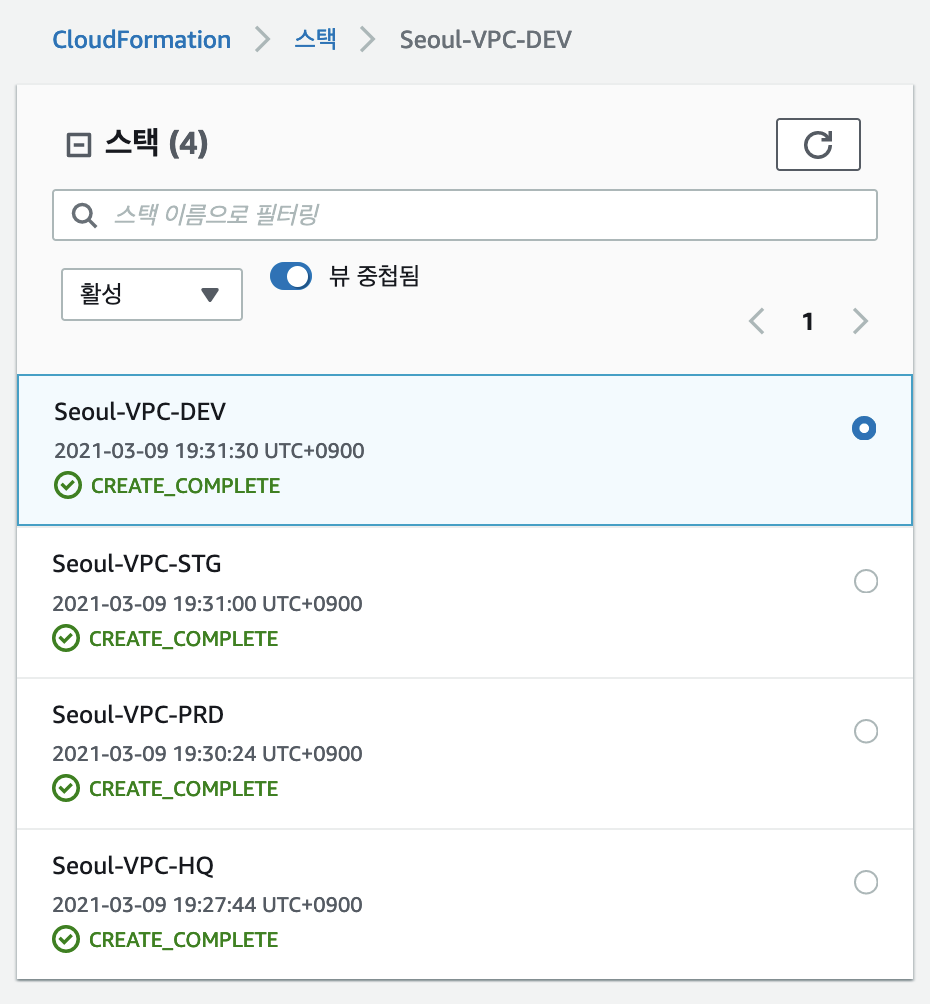
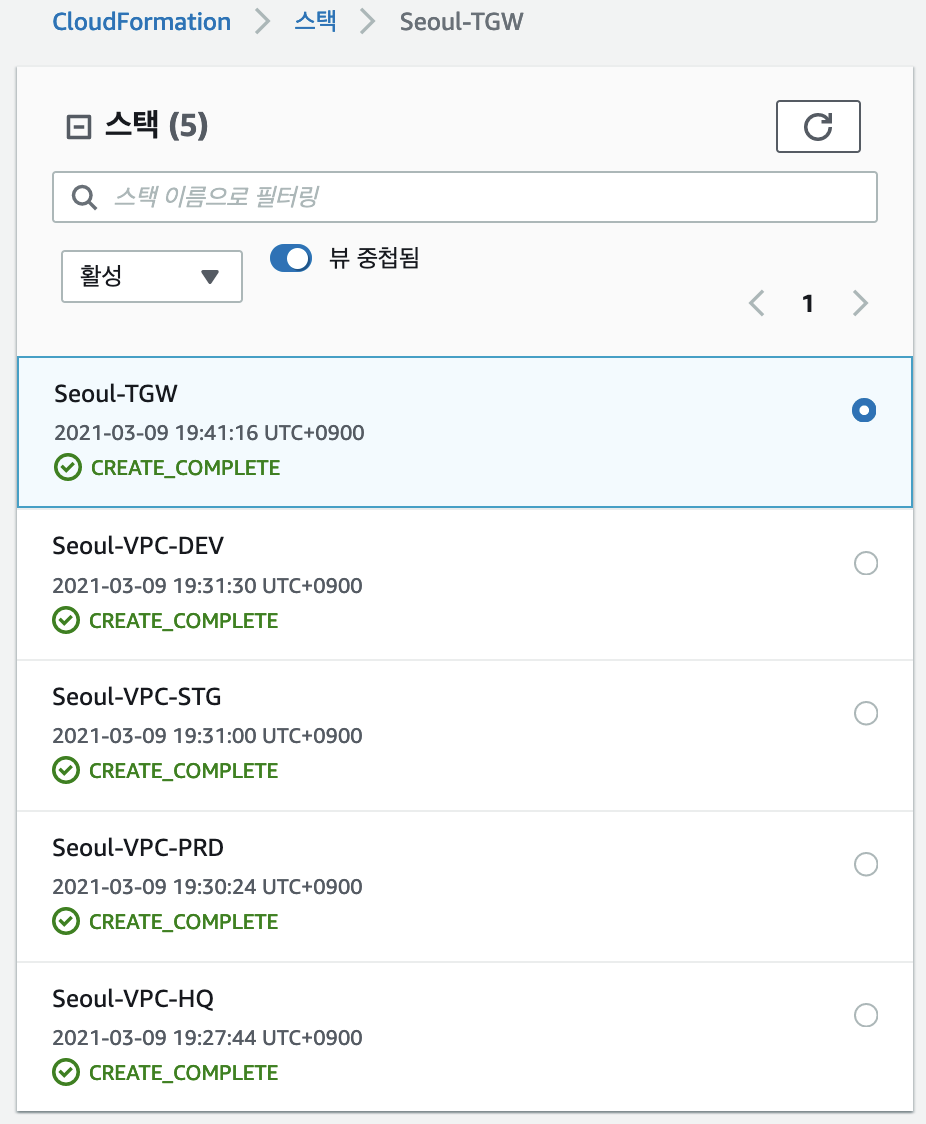
GitBook: [master] 2 pages and 3 assets modified

diff --git a/transitgateway-basic.md b/transitgateway-basic.md
@@ -44,7 +44,15 @@ Seoul-VPC-HQ.yml
 
 ![](.gitbook/assets/image%20%282%29.png)
 
+다음을 선택하고, 아래와 같아 스택이름은 파일명과 동일하게 입력합니다. 
+
 ![](.gitbook/assets/image%20%284%29.png)
+
+{% hint style="warning" %}
+스택이름을 파일명과 다르게 입력하지 마십시요. 이후 과정에서 TransitGateway의 yaml파일은 , VPC yml 에서 생성된 값들을 import 해서 TGW를 생성합니다. 스택이름을 파일명과 다르게 할 경우, TGW를 생성할 때 에러가 발생합니다.
+{% endhint %}
+
+별도로 설정 변경없이, 다음 단계를 진행하고 , 승인을 선택하고 스택생성합니다.
 
 ![](.gitbook/assets/image%20%286%29.png)
 
@@ -56,9 +64,9 @@ Seoul-VPC-STG.yml
 Seoul-VPC-DEV.yml
 ```
 
-4개의 VPC가 모두 정상적으로 구성되면 아래와 같이 Cloudformation에서 확인 할 수 있습니다. 
+4개의 VPC가 모두 정상적으로 구성되면 아래와 같이 Cloudformation에서 확인 할 수 있습니다.  4개의 VPC는 각 3분 내외에 생성됩니다. 동시에 수행해도 가능합니다.
 
-![](.gitbook/assets/image%20%287%29.png)
+![](.gitbook/assets/image%20%288%29.png)
 
 ### Task2. TGW구성하기.
 
@@ -66,9 +74,13 @@ Seoul-VPC-DEV.yml
 
 ![](.gitbook/assets/image.png)
 
+다음을 선택하고, 아래와 같아 스택이름은 파일명과 동일하게 입력합니다. \(TGW는 스택이름을 다르게 지정해도, 본 랩을 구성하는데 문제가 없습니다.\)
+
 ![](.gitbook/assets/image%20%283%29.png)
 
+5분 이내에 TransitGateway가 완성됩니다.
 
+![](.gitbook/assets/image%20%287%29.png)
 
 #### Windows Session manager plugin 설치
 
